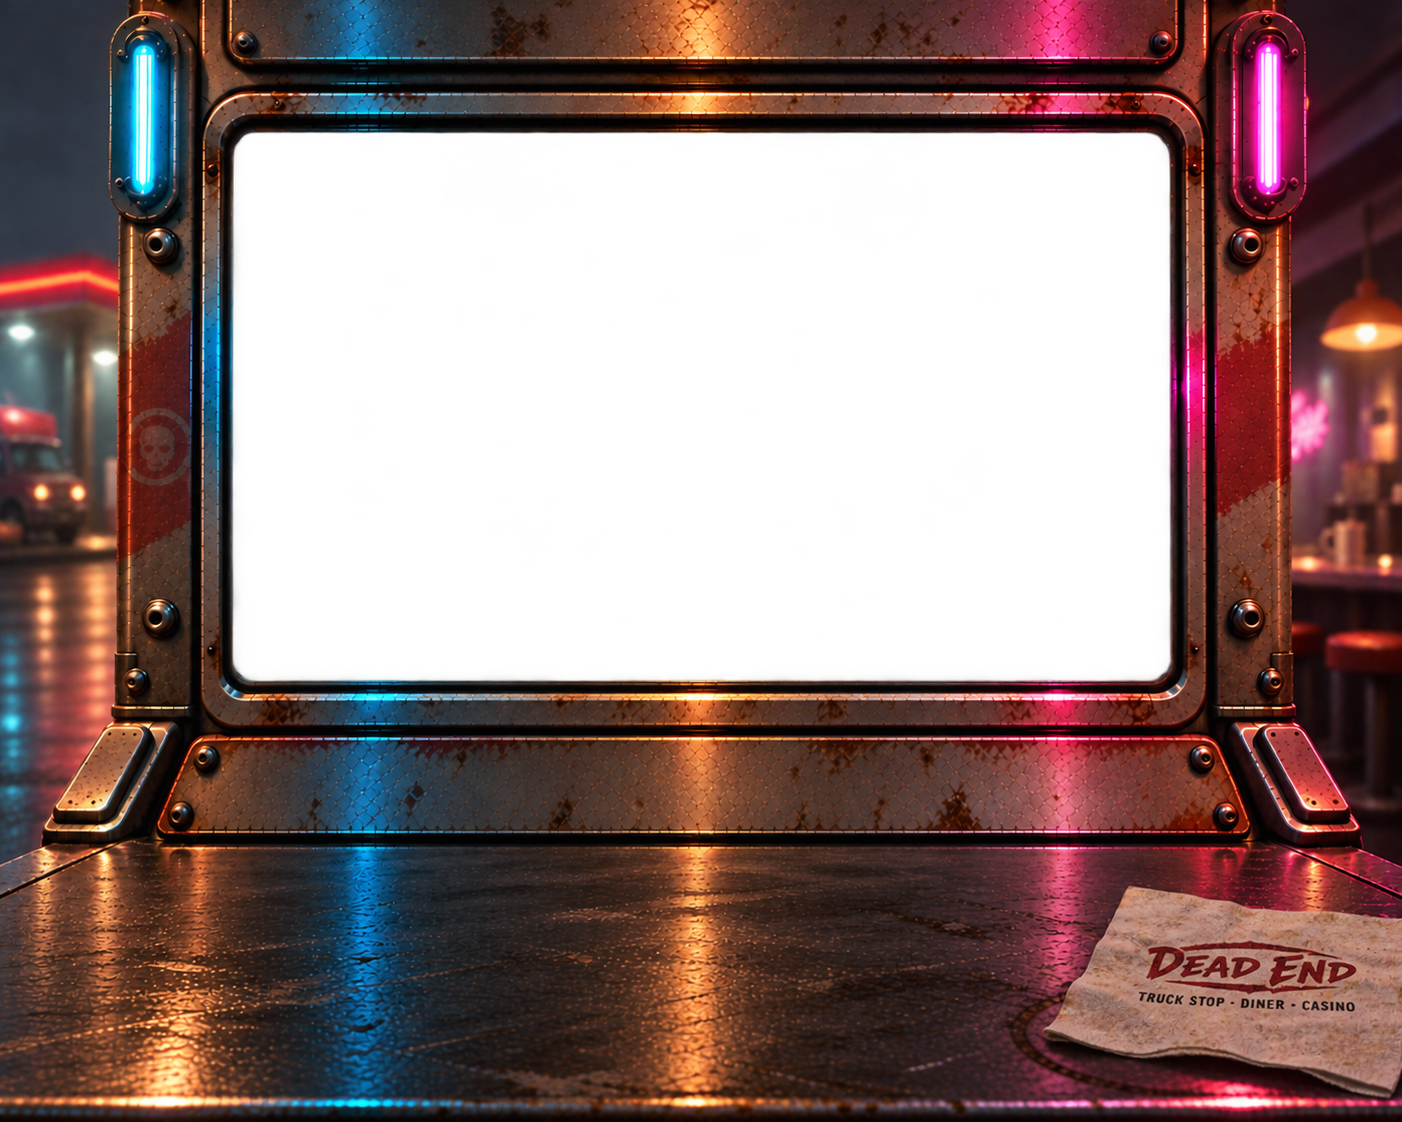
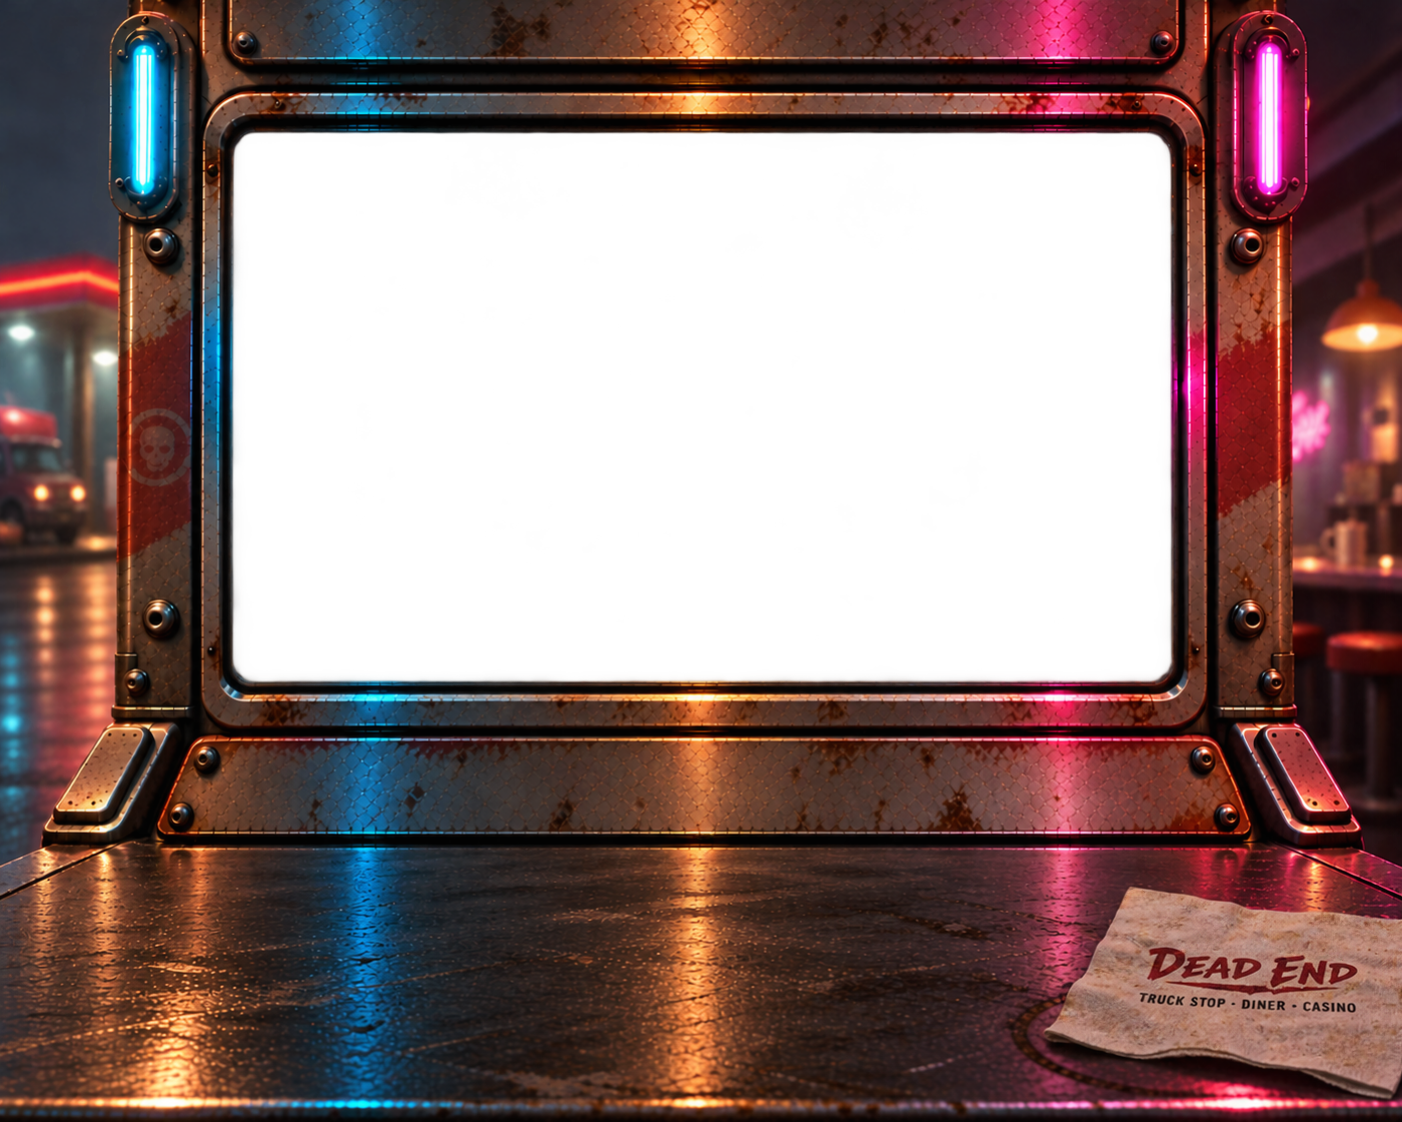
finalize left-side artwork

diff --git a/src/style.css b/src/style.css
@@ -41,48 +41,6 @@ canvas {
     50px 50px;
   background-position: 0 0;
 }
-.presentation-shell {
-  --side-region-width: 23.958333%;
-}
-.presentation-shell::before {
-  content: '';
-  position: absolute;
-  inset: 0;
-  z-index: 9999;
-  pointer-events: none;
-  /* FOREGROUND REGISTRATION GRID */
-  /* background-image:
-    linear-gradient(rgba(0, 255, 255, 0.88) 2px, transparent 2px),
-    linear-gradient(90deg, rgba(0, 255, 255, 0.88) 2px, transparent 2px),
-    linear-gradient(rgba(255, 255, 255, 0.32) 1px, transparent 1px),
-    linear-gradient(90deg, rgba(255, 255, 255, 0.32) 1px, transparent 1px); */
-  background-image:
-    linear-gradient(rgba(99, 219, 232, 0.07) 1px, transparent 1px),
-    linear-gradient(90deg, rgba(99, 219, 232, 0.07) 1px, transparent 1px),
-    linear-gradient(rgba(99, 219, 232, 0.025) 1px, transparent 1px),
-    linear-gradient(90deg, rgba(99, 219, 232, 0.025) 1px, transparent 1px);
-  background-size:
-    100px 100px,
-    100px 100px,
-    50px 50px,
-    50px 50px;
-  background-position: 0 0;
-}
-.presentation-shell::after {
-  content: '100 px  ·  50 px minor';
-  position: absolute;
-  top: 8px;
-  left: 8px;
-  z-index: 10000;
-  padding: 4px 6px;
-  border: 1px solid rgba(0, 255, 255, 0.7);
-  background: rgba(11, 13, 16, 0.9);
-  color: rgba(0, 255, 255, 0.95);
-  font: 10px/1 monospace;
-  letter-spacing: 0.04em;
-  pointer-events: none;
-  user-select: none;
-}
 .presentation-side {
   position: relative;
   min-width: 0;
@@ -142,12 +100,7 @@ canvas {
 .art-placeholder--right {
   position: absolute;
   inset: 0;
-
   border: 1px solid #8f7650;
-  /* box-shadow:
-    inset 0 0 0 1px rgba(232, 190, 112, 0.16),
-    inset 0 0 18px rgba(0, 0, 0, 0.45); */
-
   background-color: #0b0d10;
   background-position: center;
   background-repeat: no-repeat;
